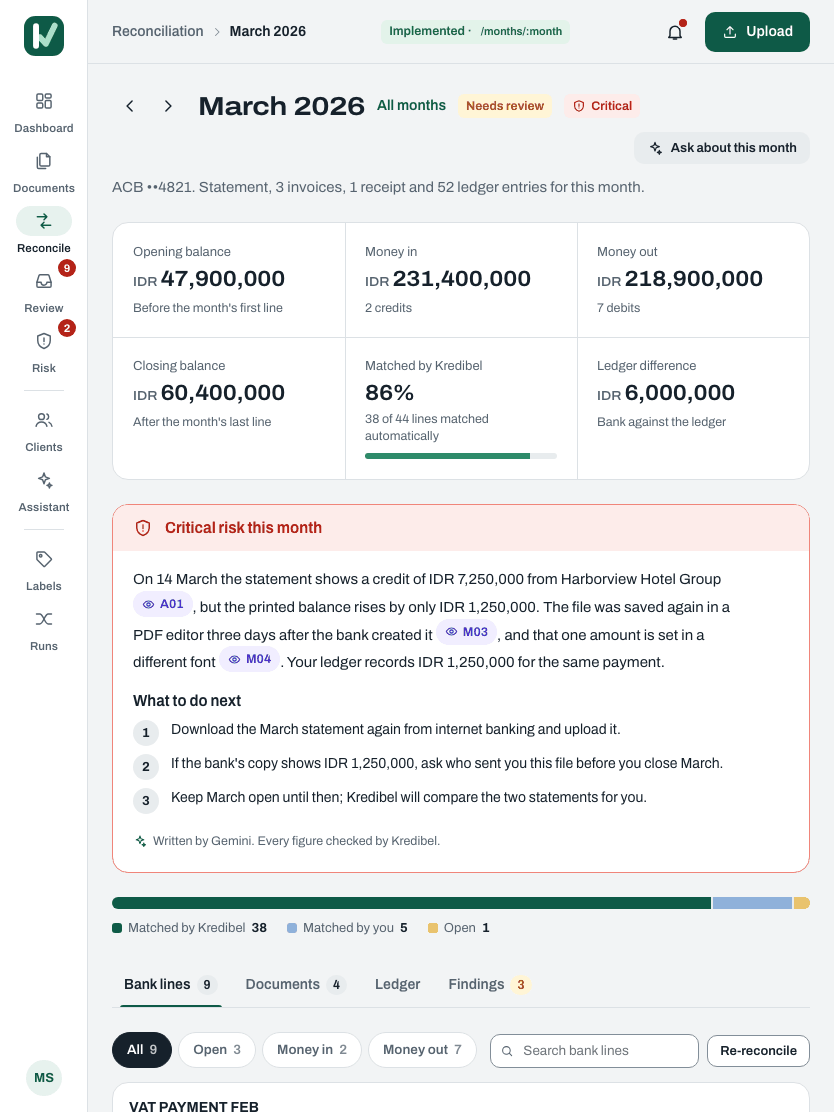
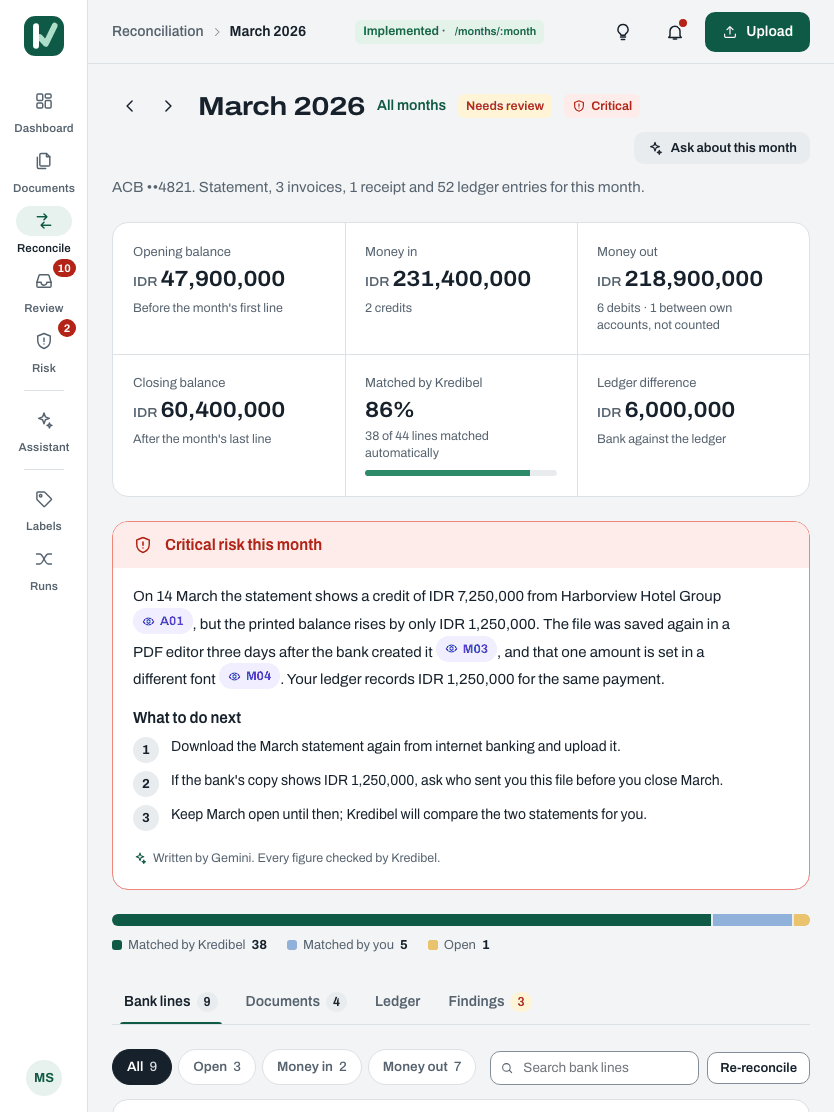
fix(007): money in and out count only the lines in their figure
Transfers between own accounts are left out of money in and out, but the sublines counted every
credit and debit, so a month could show money out of zero beside "1 debit". The sublines now count
the lines in the figure and name the transfers between own accounts as not counted, in the app and
the month mock.

Tasks: T007-13

diff --git a/frontend/src/pages/MonthPage.tsx b/frontend/src/pages/MonthPage.tsx
@@ -175,6 +175,12 @@ export function MonthPage() {
   const meterTotal = meter.auto + meter.manual + meter.open
   const share = (n: number) => `${((n / meterTotal) * 100).toFixed(1)}%`
   const credits = lines.filter(isIncoming).length
+  // Money in and out leave out transfers between own accounts (NON_CASH), so their sublines count
+  // only the lines in the figure and name the ones left out.
+  const counted = lines.filter((line) => line.cashflowClass !== 'NON_CASH')
+  const countedCredits = counted.filter(isIncoming).length
+  const ownIn = credits - countedCredits
+  const ownOut = lines.length - counted.length - ownIn
 
 
   const handleUnmatch = async (matchId: string) => {
@@ -398,12 +404,18 @@ export function MonthPage() {
               <div>
                 <dt>{t('months:monthDetail.moneyIn')}</dt>
                 <dd className="v">{figure(moneyIn)}</dd>
-                <dd className="n">{t('months:monthDetail.creditsRecorded', { count: credits })}</dd>
+                <dd className="n">
+                  {t('months:monthDetail.creditsRecorded', { count: countedCredits })}
+                  {ownIn > 0 && ` · ${t('months:monthDetail.ownAccountsNotCounted', { count: ownIn })}`}
+                </dd>
               </div>
               <div>
                 <dt>{t('months:monthDetail.moneyOut')}</dt>
                 <dd className="v">{figure(moneyOut)}</dd>
-                <dd className="n">{t('months:monthDetail.debitsRecorded', { count: lines.length - credits })}</dd>
+                <dd className="n">
+                  {t('months:monthDetail.debitsRecorded', { count: counted.length - countedCredits })}
+                  {ownOut > 0 && ` · ${t('months:monthDetail.ownAccountsNotCounted', { count: ownOut })}`}
+                </dd>
               </div>
               <div>
                 <dt>{t('months:monthDetail.closingBalance')}</dt>

diff --git a/design/mocks/month.html b/design/mocks/month.html
@@ -53,7 +53,7 @@
   <dl class="ledger-figures">
     <div><dt>Opening balance</dt><dd class="v"><small>IDR</small>47,900,000</dd><dd class="n">Before the month&#x27;s first line</dd></div>
     <div><dt>Money in</dt><dd class="v"><small>IDR</small>231,400,000</dd><dd class="n">2 credits</dd></div>
-    <div><dt>Money out</dt><dd class="v"><small>IDR</small>218,900,000</dd><dd class="n">7 debits</dd></div>
+    <div><dt>Money out</dt><dd class="v"><small>IDR</small>218,900,000</dd><dd class="n">6 debits · 1 between own accounts, not counted</dd></div>
     <div><dt>Closing balance</dt><dd class="v"><small>IDR</small>60,400,000</dd><dd class="n">After the month&#x27;s last line</dd></div>
     <div><dt>Matched by Kredibel</dt><dd class="v">86%</dd><dd class="n">38 of 44 lines matched automatically</dd><dd class="mini"><i style="width:86%"></i></dd></div>
     <div><dt>Ledger difference</dt><dd class="v"><small>IDR</small>6,000,000</dd><dd class="n">Bank against the ledger</dd></div>

diff --git a/tools/design/mocks/screens.py b/tools/design/mocks/screens.py
@@ -843,6 +843,14 @@ def month() -> str:
     currency = "IDR"
     label = month_name(data["month"])
     credits = sum(1 for l in lines if not l["amount"]["amount"].startswith("-"))
+    # Money in and out leave out transfers between own accounts (NON_CASH), as the app does.
+    counted = [l for l in lines if l.get("cashflowClass") != "NON_CASH"]
+    counted_credits = sum(1 for l in counted if not l["amount"]["amount"].startswith("-"))
+    own_in = credits - counted_credits
+    own_out = len(lines) - len(counted) - own_in
+
+    def own(n: int) -> str:
+        return f' · {mw("monthDetail.ownAccountsNotCounted", count=n)}' if n else ""
     in_scope = int(figures["bankLines"]) - int(figures["excluded"])
     auto, manual, open_ = int(figures["autoMatched"]), int(figures["manuallyMatched"]), int(figures["proposed"]) + int(figures["unmatched"])
     total = auto + manual + open_
@@ -855,8 +863,8 @@ def month() -> str:
 <section class="ledger" aria-label="{mw("monthDetail.figuresAria", month=label)}">
   <dl class="ledger-figures">
     <div><dt>{mw("monthDetail.openingBalance")}</dt><dd class="v"><small>{currency}</small>{amount(figures["opening"])}</dd><dd class="n">{mw("monthDetail.fromPreviousClosing")}</dd></div>
-    <div><dt>{mw("monthDetail.moneyIn")}</dt><dd class="v"><small>{currency}</small>{amount(figures["moneyIn"])}</dd><dd class="n">{mw("monthDetail.creditsRecorded", count=credits)}</dd></div>
-    <div><dt>{mw("monthDetail.moneyOut")}</dt><dd class="v"><small>{currency}</small>{amount(figures["moneyOut"].lstrip("-"))}</dd><dd class="n">{mw("monthDetail.debitsRecorded", count=len(lines) - credits)}</dd></div>
+    <div><dt>{mw("monthDetail.moneyIn")}</dt><dd class="v"><small>{currency}</small>{amount(figures["moneyIn"])}</dd><dd class="n">{mw("monthDetail.creditsRecorded", count=counted_credits)}{own(own_in)}</dd></div>
+    <div><dt>{mw("monthDetail.moneyOut")}</dt><dd class="v"><small>{currency}</small>{amount(figures["moneyOut"].lstrip("-"))}</dd><dd class="n">{mw("monthDetail.debitsRecorded", count=len(counted) - counted_credits)}{own(own_out)}</dd></div>
     <div><dt>{mw("monthDetail.closingBalance")}</dt><dd class="v"><small>{currency}</small>{amount(figures["closing"])}</dd><dd class="n">{mw("monthDetail.asPrintedOnStatement")}</dd></div>
     <div><dt>{mw("monthDetail.matchedByKredibel")}</dt><dd class="v">{rate}%</dd><dd class="n">{mw("monthDetail.allocatedToDocs", matched=auto, total=in_scope)}</dd><dd class="mini"><i style="width:{rate}%"></i></dd></div>
     <div><dt>{mw("monthDetail.ledgerDifference")}</dt><dd class="v"><small>{currency}</small>{amount(figures["ledgerDifference"])}</dd><dd class="n">{mw("monthDetail.differenceWithLedger")}</dd></div>

diff --git a/docs/specs/007-reconciliation/tasks.md b/docs/specs/007-reconciliation/tasks.md
@@ -78,6 +78,9 @@
   note ("No currency printed: read as IDR"); only a different printed currency waits for agreement.
   Decided 13 Oct 2026 after the synthetic run, where every receipt ("TOTAL 467,976.00") was blocked
   from matching. ADR-025 amended. (AC-007-19)
+- [x] **T007-13** Money in and Money out count only the lines in their figure; transfers between own
+  accounts (`NON_CASH`) are named beside them as not counted, in the app and the month mock (16 Oct
+  2026: a month showed money out of zero beside "1 debit").
 
 ## Phase 4 — Close
 
